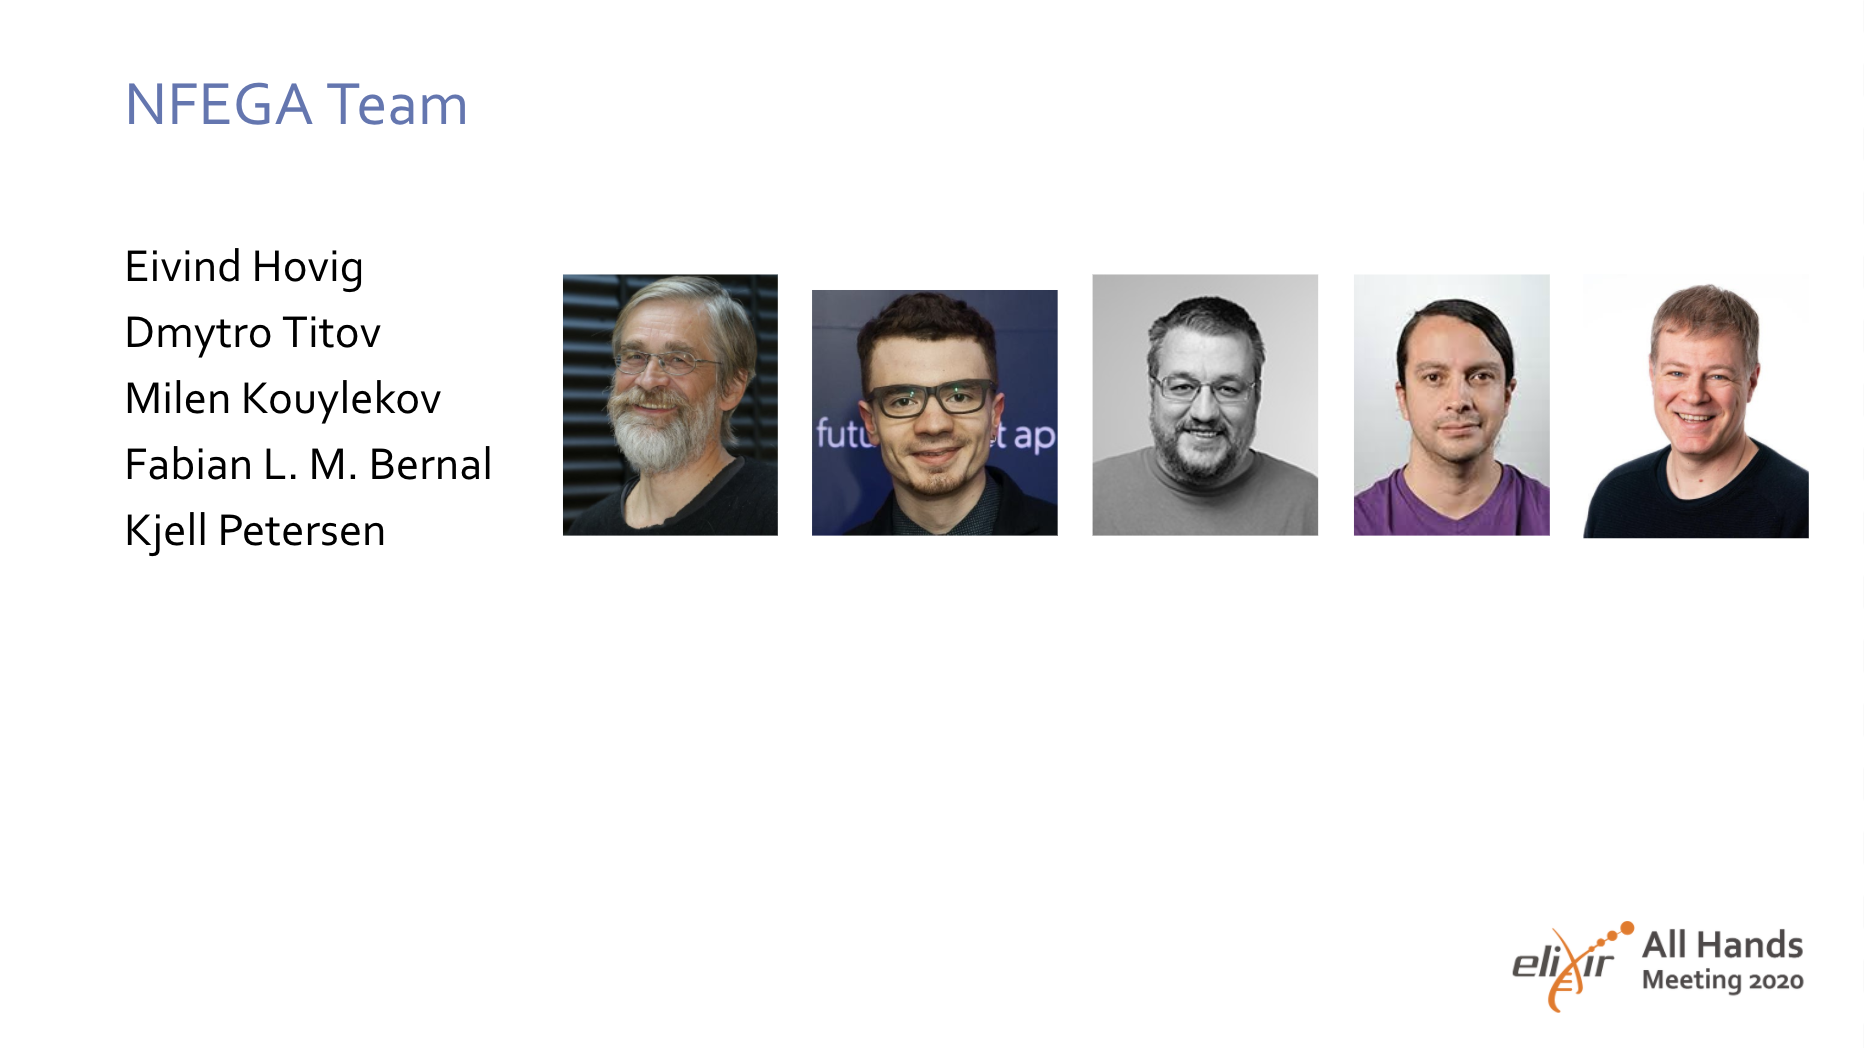
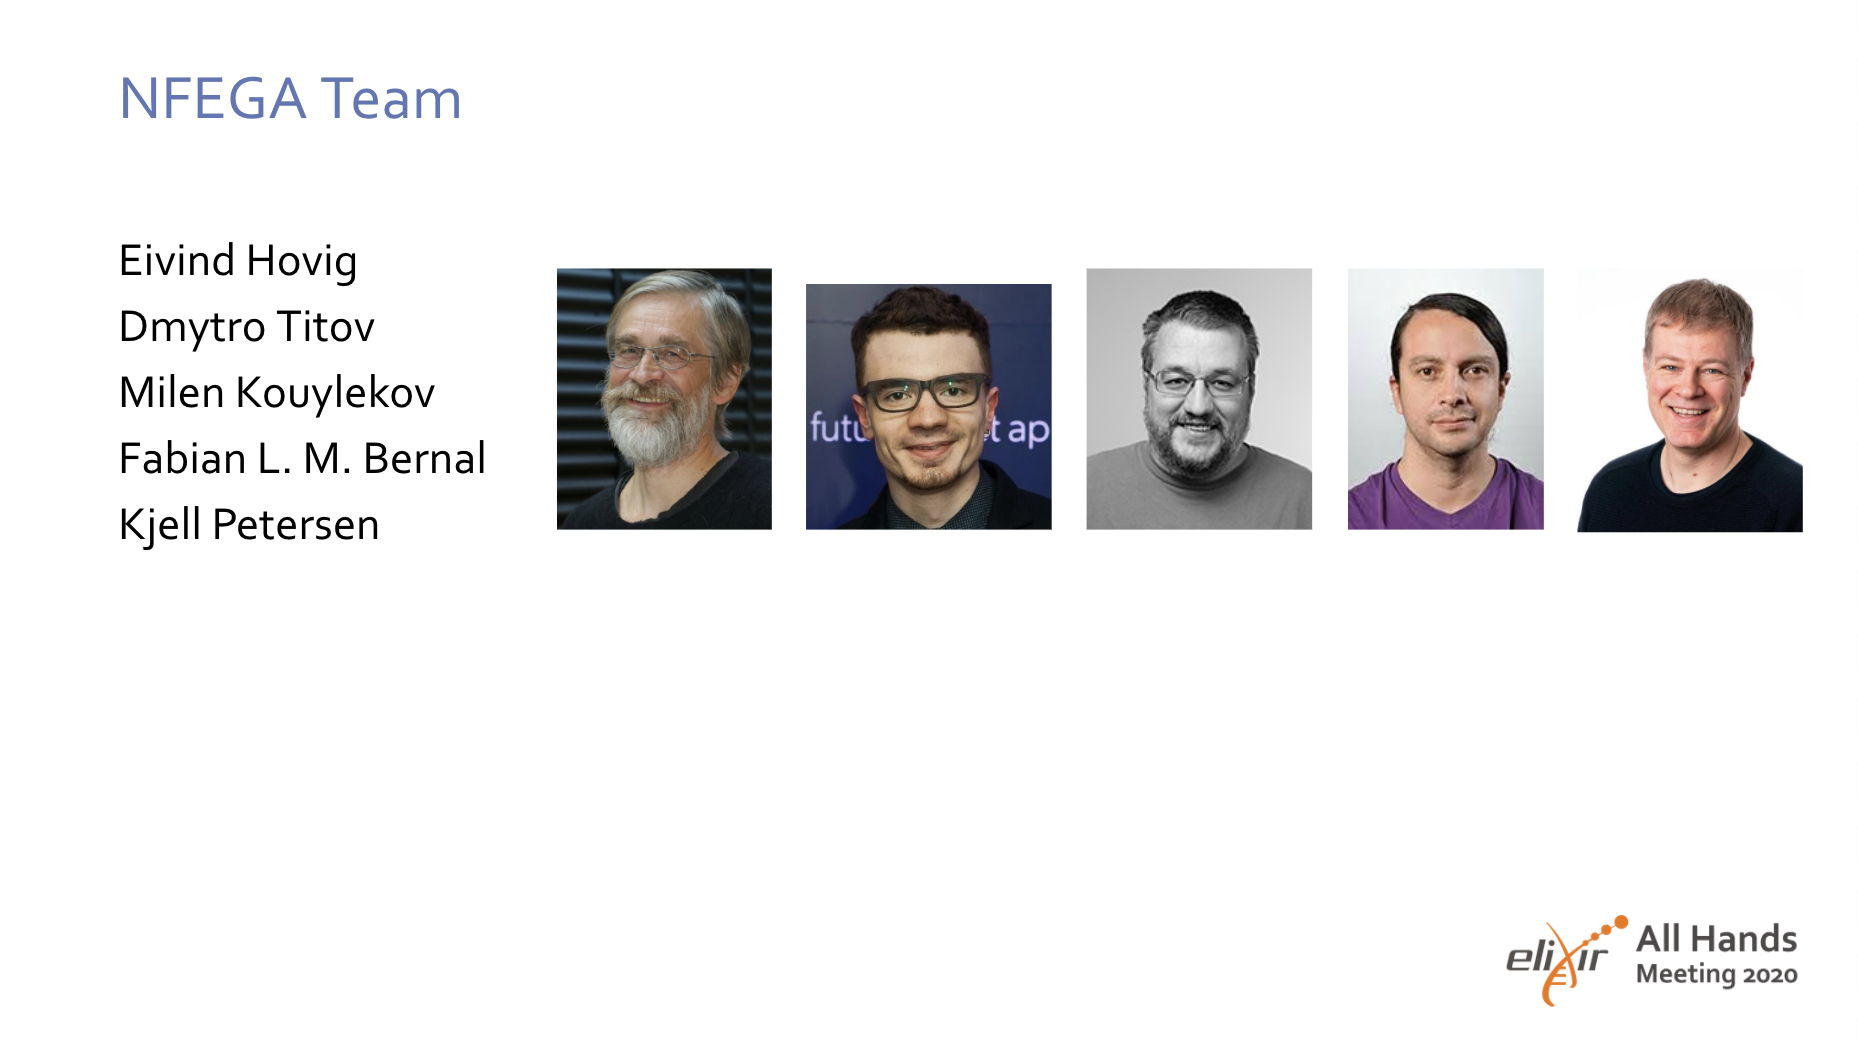
Fix slider

diff --git a/about.html b/about.html
@@ -45,7 +45,7 @@
             <div class="grid-row grid-row--center">
                 <div class="grid-column mt3 mb2 order-2">
                     <div class="border--bottom pb2 mb2">
-                        <h2>Team</h2>
+                        <h2>The teams</h2>
                         <p>
                             The Sensitive Data Archive project (SDA aka LocalEGA) has emerged as part of a productive collaboration between <a href="https://elixir.no/" class="link link--text" target="_blank">ELIXIR Norway</a>, <a href="https://neic.no/tryggve/" class="link link--text" target="_blank">NeIC Tryggve</a> and our partners at Central EGA: <a href="https://www.ebi.ac.uk/" class="link link--text" target="_blank">EBI</a> and <a href="https://www.crg.eu/" class="link link--text" target="_blank">CRG</a>.
                             The Norwegian Federated EGA Node is developed and operated by ELIXIR Norway and <a href="https://www.uio.no/" class="link link--text" target="_blank">UiO</a> (<a href="https://www.usit.uio.no/" class="link link--text" target="_blank">USIT</a> and <a href="https://www.uio.no/english/services/it/research/sensitive-data/" class="link link--text" target="_blank">TSD</a>), utilising the components of the SDA project collaboration.
@@ -60,9 +60,9 @@
                     <div class="splide">
                         <div class="splide__track">
                             <div class="splide__list">
-                                <img class="splide__slide" src="/img/nfega_team.png"/>
-                                <img class="splide__slide" src="/img/tryggve_team.jpeg"/>
-                                <img class="splide__slide" src="/img/logos.png"/>
+                                <img class="splide__slide" src="/img/nfega_team.png" alt="NFEGA Team"/>
+                                <img class="splide__slide" src="/img/tryggve_team.jpeg" alt="Tryggve Team"/>
+                                <img class="splide__slide" src="/img/logos.png" alt="Logos"/>
                             </div>
                         </div>
                     </div>
@@ -144,7 +144,9 @@
             autoplay    : true,
             interval: 3000,
             pauseOnHover: true,
+            // height: '100px',
             width: '500px',
+            heightRatio: 0.5608,
         } ).mount();
     </script>
 
